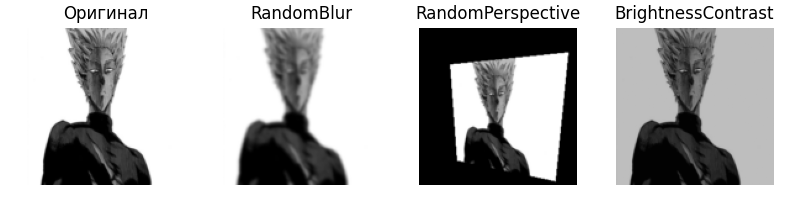
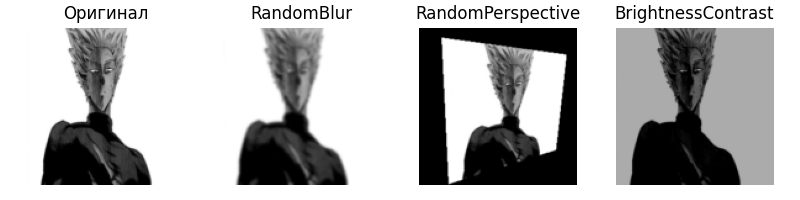
Update 1

Changed region(s): [[0.5312, 0.18, 0.7188, 0.93], [0.7812, 0.12, 0.9375, 0.93], [0.7812, 0.9, 0.8125, 0.93]]

diff --git a/augmentation_pipeline.py b/augmentation_pipeline.py
@@ -31,18 +31,6 @@ class AugmentationPipeline:
         transform = transforms.Compose(list(self.augmentations.values()))
         return transform(image)
 
-def build_custom_pipeline():
-    '''
-    Создает и возвращает кастомный пайплайн с конкретным набором аугментаций
-    '''
-    pipeline = AugmentationPipeline()
-    pipeline.add_augmentation("resize", transforms.Resize((224, 224)))
-    pipeline.add_augmentation("random_blur", RandomBlur(p=0.8))
-    pipeline.add_augmentation("random_perspective", RandomPerspective(p=0.7))
-    pipeline.add_augmentation("to_tensor", transforms.ToTensor())
-    pipeline.add_augmentation("gaussian_noise", AddGaussianNoise(std=0.05))
-    return pipeline
-
 def save_augmented_images(pipeline, dataset, save_dir, num_images=50):
     '''
     Применяет пайплайн к изображениям из датасета и сохраняет аугментированные изображения в указанную директорию.
@@ -61,14 +49,52 @@ def save_augmented_images(pipeline, dataset, save_dir, num_images=50):
         save_path = os.path.join(class_dir, f"aug_{i}.png")
         save_image(aug_image, save_path)
 
+# Конфигурации аугментаций
+def build_light_pipeline():
+    pipeline = AugmentationPipeline()
+    pipeline.add_augmentation("resize", transforms.Resize((224, 224)))
+    pipeline.add_augmentation("horizontal_flip", transforms.RandomHorizontalFlip(p=0.3))
+    pipeline.add_augmentation("to_tensor", transforms.ToTensor())
+    
+    return pipeline
+
+def build_medium_pipeline():
+    pipeline = AugmentationPipeline()
+    pipeline.add_augmentation("resize", transforms.Resize((224, 224)))
+    pipeline.add_augmentation("horizontal_flip", transforms.RandomHorizontalFlip(p=0.5))
+    pipeline.add_augmentation("color_jitter", transforms.ColorJitter(brightness=0.2, contrast=0.2, saturation=0.2))
+    pipeline.add_augmentation("random_blur", RandomBlur(p=0.5))
+    pipeline.add_augmentation("to_tensor", transforms.ToTensor())
+
+    return pipeline
+
+def build_heavy_pipeline():
+    pipeline = AugmentationPipeline()
+    pipeline.add_augmentation("resize", transforms.Resize((224, 224)))
+    pipeline.add_augmentation("horizontal_flip", transforms.RandomHorizontalFlip(p=0.7))
+    pipeline.add_augmentation("random_perspective", RandomPerspective(p=0.7))
+    pipeline.add_augmentation("random_blur", RandomBlur(p=0.8))
+    pipeline.add_augmentation("color_jitter", transforms.ColorJitter(brightness=0.4, contrast=0.4, saturation=0.4, hue=0.1))
+    pipeline.add_augmentation("to_tensor", transforms.ToTensor()) 
+    pipeline.add_augmentation("gaussian_noise", AddGaussianNoise(std=0.05)) 
+
+    return pipeline
+
 
 if __name__ == "__main__":
     train_dir = "homework_5/data/train"
     dataset = CustomImageDataset(root_dir=train_dir)
 
-    pipeline = build_custom_pipeline()
+    # Light pipeline
+    light_pipeline = build_light_pipeline()
+    save_augmented_images(light_pipeline, dataset, "homework_5/output_augmented/light", num_images=50)
 
-    save_dir = "homework_5/output_augmented/custom_pipeline"
-    save_augmented_images(pipeline, dataset, save_dir, num_images=50)
+    # Medium pipeline
+    medium_pipeline = build_medium_pipeline()
+    save_augmented_images(medium_pipeline, dataset, "homework_5/output_augmented/medium", num_images=50)
 
-    print("Аугментированные изображения успешно сохранены.")
+    # Heavy pipeline
+    heavy_pipeline = build_heavy_pipeline()
+    save_augmented_images(heavy_pipeline, dataset, "homework_5/output_augmented/heavy", num_images=50)
+
+    print("Все аугментированные изображения успешно сохранены.")
